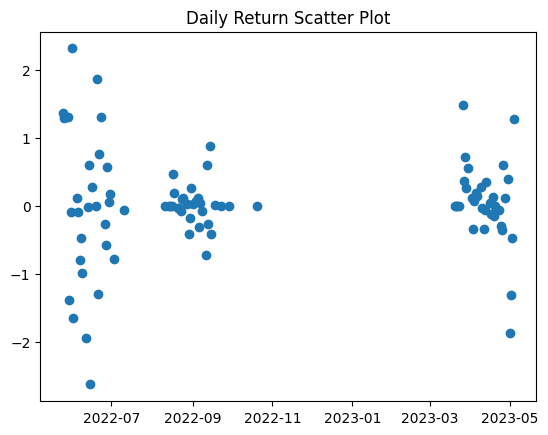
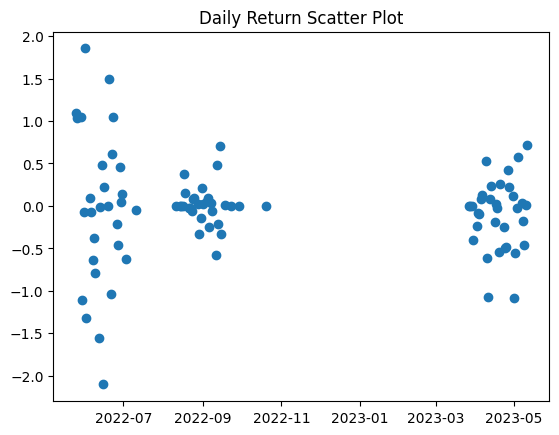
resolved skprm, manually updated to skprm_resolve branch

diff --git a/subsystems/SKPRM/subsys.py b/subsystems/SKPRM/subsys.py
@@ -34,11 +34,12 @@ class Skprm:
     """
 
     def extend_historicals(self, instruments, historical_data):
-        for date in historical_data.index:
-            for inst in instruments:
-                rolling_returns = historical_data.loc[:date].tail(60)["{} % ret".format(inst)]
-                skewness = skew(rolling_returns)
-                historical_data.loc[date, "{} skew".format(inst)] = skewness
+        historical_data.to_csv('testData1.csv')
+        skew_roll = historical_data[[inst + " % ret" for inst in instruments]].rolling(20).apply(skew)
+        #skew_instruments = [i[:-5] for i in skew_roll.columns]
+        skew_roll.columns = skew_roll.columns + ' skew'
+        historical_data = pd.concat([historical_data, skew_roll], axis=1)
+        historical_data.to_csv('testData2.csv')
         return historical_data
 
     def run_simulation(self, historical_data, debug=False, use_disk=False):
@@ -99,7 +100,7 @@ class Skprm:
 
                 skews = {}
                 for inst in tradable:
-                    skews[inst] = historical_data.loc[date, "{} skew".format(inst)]
+                    skews[inst] = historical_data.loc[date, "{} % ret skew".format(inst)]
                 skews = {k:v for k,v in sorted(skews.items(), key=lambda pair:pair[1])}
                 quantile_size = int(len(tradable) * 0.25)
                 high_skewness = list(skews.keys())[-quantile_size:]
